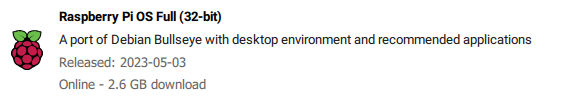
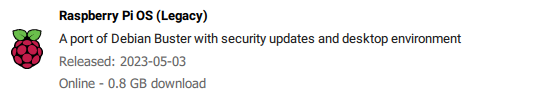
updated the OS from  to

Changed region(s): [[0.0, 0.2755, 0.9461, 0.7041], [0.0916, 0.7653, 0.3968, 0.9184], [0.0916, 0.0918, 0.3968, 0.2449]]

diff --git a/docs/getting_started.md b/docs/getting_started.md
@@ -10,7 +10,9 @@ Follow the steps to get started with building the system
 ## Raspberry Pi Configuration
 Once the system is wired up. 
 
-* Flash the SD card using a fresh Image of Raspbian OS 32 bit.
+Note: **Make sure to use Raspbian OS 32 bit Legacy. Latest Raspbian (Bullseye) is not supported by Anydesk**
+
+* Flash the SD card using a fresh Image of Raspbian OS 32 bit (Legacy).
 * Enable SSH and WiFi using the advanced settings page.
 ![](images/os.png)
 ![](images/settings.png)
